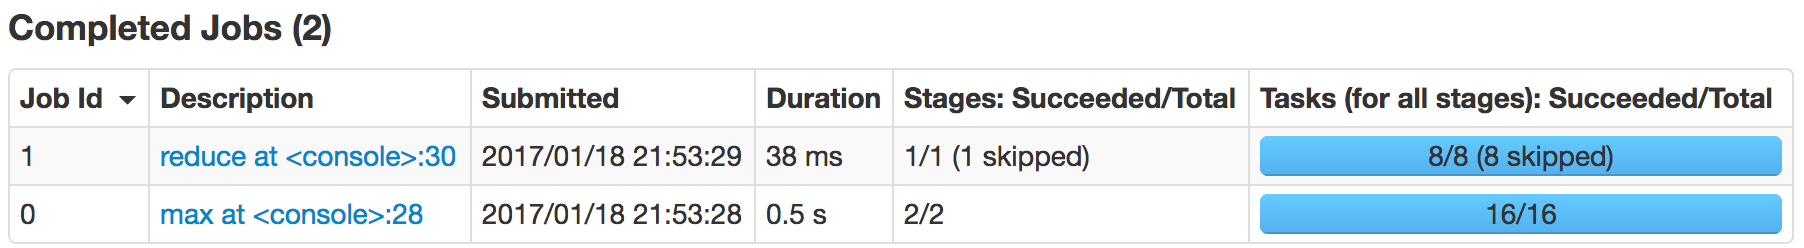
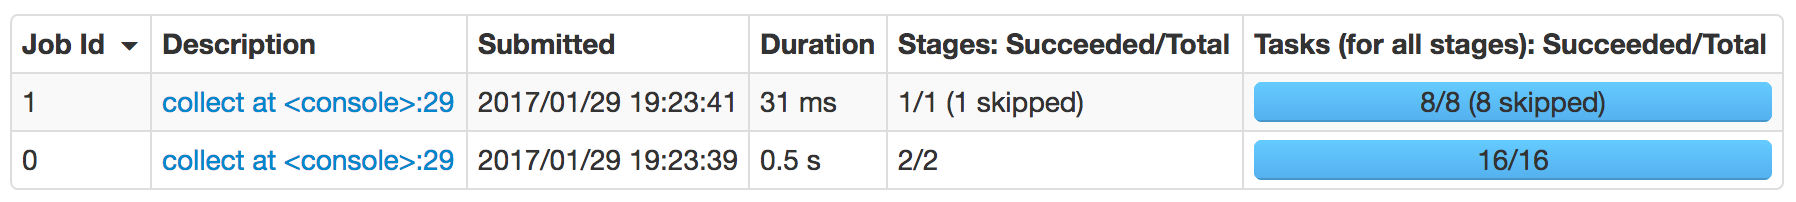
Better and more examples.

diff --git a/presentation/index.html b/presentation/index.html
@@ -387,25 +387,59 @@ object RddExample extends App {
 
 --
 
-Let's look at this code snippet.
+Let's take a simple example.
+
+--
+
+In a list of 100 random numbers find the *max* and *min* *even* and *odd* numbers.
 
 --
 
 ```scala
-val nums = sc.parallelize(1 to 100)
+import scala.util.Random
+
+// Generates 100 random numbers between 0 (inclusive) and 1000 (exclusive).
+val numsRdd = sc.parallelize(Seq.fill(100)(1000).map(Random.nextInt))
+```
+
+---
+
+# Why are RDDs lazy?
+
+Let's take a simple example.
+
+In a list of 100 random numbers find the max and min even and odd number.
+
+```scala
+import scala.util.Random
+
+// Generates 100 random numbers between 0 (inclusive) and 1000 (exclusive).
+val numsRdd = sc.parallelize(Seq.fill(100)(1000).map(Random.nextInt))
 
 // `groupBy` returns an RDD of key-value pairs, `RDD[(Int, Iterable[Int])]` here.
-val grouped = nums.groupBy(_ % 3)
+val grouped = numsRdd.groupBy(_ % 2)
+```
 
-// `_1` accesses the first element in a Scala tuple.
-// `max` forces computation of an RDD like `reduce`.
-val maxKey = grouped.map(_._1).max
+---
 
-// `flatMap` maps over any iterable and flattens all the elements.
-val sum = grouped
-  .flatMap(_._2)
-  .map(_ * maxKey)
-  .reduce(_ + _)
+# Why are RDDs lazy?
+
+Let's take a simple example.
+
+In a list of 100 random numbers find the max and min even and odd number.
+
+```scala
+import scala.util.Random
+
+// Generates 100 random numbers between 0 (inclusive) and 1000 (exclusive).
+val numsRdd = sc.parallelize(Seq.fill(100)(1000).map(Random.nextInt))
+
+// `groupBy` returns an RDD of key-value pairs, `RDD[(Int, Iterable[Int])]` here.
+val grouped = numsRdd.groupBy(_ % 2)
+
+// `collect` is an action forces computation.
+val max = grouped.mapValues(_.max).collect
+val min = grouped.mapValues(_.min).collect
 ```
 
 --
@@ -422,25 +456,310 @@ In the Spark UI, we'll see this:
 
 --
 
-Spark first creates a DAG of all the operations to be performed. The DAG for the previous `maxKey` looks like this.
+Spark first creates a DAG of all the operations to be performed. The DAG for the `max` operation looks like this.
 
 --
 
-.center[![:scale 40%](images/maxDag.png)]
+.center[![:scale 100%](images/maxDag.png)]
 
 ---
 
 # RDD dependency (or lineage) graph
 
-The DAG for `sum` however looks like this.
+The DAG for the `min` operation should look the same, right?
 
 --
 
-.center[![:scale 40%](images/sumDag.png)]
+.center[![:scale 100%](images/minDag.png)]
 
 --
 
-Hence, lazy evaluation allows Spark avoid unnecessary recomputation of the same data.
+Hence, lazy evaluation allows Spark to avoid recomputations.
+
+---
+
+# A more complex example.
+
+--
+
+Find total student enrollments in all CS courses.
+
+--
+
+```scala
+case class User(
+  id: Long,
+  fname: String,
+  lname: String,
+  isStudent: Boolean,
+  isTeacher: Boolean)
+```
+
+---
+
+# A more complex example.
+
+Find total student enrollments in all CS courses.
+
+```scala
+case class User(
+  id: Long,
+  fname: String,
+  lname: String,
+  isStudent: Boolean,
+  isTeacher: Boolean)
+
+case class Course(
+  id: Long,
+  name: String,
+  code: Int,
+  department: String,
+  `type`: String)
+```
+
+---
+
+# A more complex example.
+
+Find total student enrollments in all CS courses.
+
+```scala
+case class User(
+  id: Long,
+  fname: String,
+  lname: String,
+  isStudent: Boolean,
+  isTeacher: Boolean)
+
+case class Course(
+  id: Long,
+  name: String,
+  code: Int,
+  department: String,
+  `type`: String)
+
+case class Enrollment(
+  id: Long,
+  userId: Long,
+  courseId: Long,
+  isArchived: Option[Boolean] = None)
+```
+
+---
+
+# A more complex example.
+
+Some sample data.
+
+```scala
+val users = sc.parallelize(
+  User(1, "Teacher", "Doe", false, true) ::
+  User(2, "Another Teacher", "Doe", false, true) ::
+  User(3, "TA", "Doe", true, true) ::
+  User(4, "Lazy TA", "Doe", true, true) ::
+  User(5, "Student", "Doe", true, false) ::
+  User(6, "Another Student", "Doe", true, false) ::
+  User(7, "Yet Another Student", "Doe", true, false) :: Nil)
+```
+
+---
+
+# A more complex example.
+
+Some sample data.
+
+```scala
+val users = sc.parallelize(
+  User(1, "Teacher", "Doe", false, true) ::
+  User(2, "Another Teacher", "Doe", false, true) ::
+  User(3, "TA", "Doe", true, true) ::
+  User(4, "Lazy TA", "Doe", true, true) ::
+  User(5, "Student", "Doe", true, false) ::
+  User(6, "Another Student", "Doe", true, false) ::
+  User(7, "Yet Another Student", "Doe", true, false) :: Nil)
+
+val courses = sc.parallelize(
+  Course(1, "Algorithms", 100, "CS", "Core") ::
+  Course(2, "Dissecting Frogs", 200, "Bio", "Elective") ::
+  Course(3, "Global Warming: That thing invented by China", 100, "Bio",
+    "NowAnElective") ::
+  Course(4, "Computer Networks: Hacker stuff!", 300, "CS", "Elective") :: Nil)
+```
+
+---
+
+# A more complex example.
+
+Some sample data.
+
+```scala
+val users = sc.parallelize(
+  User(1, "Teacher", "Doe", false, true) ::
+  User(2, "Another Teacher", "Doe", false, true) ::
+  User(3, "TA", "Doe", true, true) ::
+  User(4, "Lazy TA", "Doe", true, true) ::
+  User(5, "Student", "Doe", true, false) ::
+  User(6, "Another Student", "Doe", true, false) ::
+  User(7, "Yet Another Student", "Doe", true, false) :: Nil)
+
+val courses = sc.parallelize(
+  Course(1, "Algorithms", 100, "CS", "Core") ::
+  Course(2, "Dissecting Frogs", 200, "Bio", "Elective") ::
+  Course(3, "Global Warming: That thing invented by China", 100, "Bio",
+    "NowAnElective") ::
+  Course(4, "Computer Networks: Hacker stuff!", 300, "CS", "Elective") :: Nil)
+
+val archivedEnrollments = sc.parallelize(
+  Enrollment(id = 11, userId = 1, courseId = 1, isArchived = Some(true)) ::
+  Enrollment(id = 12, userId = 3, courseId = 1, isArchived = Some(true)) ::
+  Enrollment(id = 13, userId = 5, courseId = 1, isArchived = Some(true)) ::
+  Enrollment(id = 14, userId = 2, courseId = 2, isArchived = Some(true)) ::
+  Enrollment(id = 15, userId = 6, courseId = 2, isArchived = Some(true)) :: Nil)
+```
+
+---
+
+# A more complex example.
+
+```scala
+val currentEnrollments = sc.parallelize(
+  Enrollment(id = 21, userId = 1, courseId = 1) ::
+  Enrollment(id = 22, userId = 3, courseId = 1) ::
+  Enrollment(id = 23, userId = 6, courseId = 1) ::
+  Enrollment(id = 24, userId = 4, courseId = 4) ::
+  Enrollment(id = 25, userId = 7, courseId = 4) ::
+  Enrollment(id = 26, userId = 2, courseId = 2) ::
+  Enrollment(id = 27, userId = 2, courseId = 3) ::
+  Enrollment(id = 26, userId = 5, courseId = 2) ::
+  Enrollment(id = 27, userId = 6, courseId = 3) :: Nil)
+```
+
+---
+
+# A more complex example.
+
+```scala
+val currentEnrollments = sc.parallelize(
+  Enrollment(id = 21, userId = 1, courseId = 1) ::
+  Enrollment(id = 22, userId = 3, courseId = 1) ::
+  Enrollment(id = 23, userId = 6, courseId = 1) ::
+  Enrollment(id = 24, userId = 4, courseId = 4) ::
+  Enrollment(id = 25, userId = 7, courseId = 4) ::
+  Enrollment(id = 26, userId = 2, courseId = 2) ::
+  Enrollment(id = 27, userId = 2, courseId = 3) ::
+  Enrollment(id = 26, userId = 5, courseId = 2) ::
+  Enrollment(id = 27, userId = 6, courseId = 3) :: Nil)
+
+val csCourses = courses.filter(_.department == "CS")
+```
+
+---
+
+# A more complex example.
+
+```scala
+val currentEnrollments = sc.parallelize(
+  Enrollment(id = 21, userId = 1, courseId = 1) ::
+  Enrollment(id = 22, userId = 3, courseId = 1) ::
+  Enrollment(id = 23, userId = 6, courseId = 1) ::
+  Enrollment(id = 24, userId = 4, courseId = 4) ::
+  Enrollment(id = 25, userId = 7, courseId = 4) ::
+  Enrollment(id = 26, userId = 2, courseId = 2) ::
+  Enrollment(id = 27, userId = 2, courseId = 3) ::
+  Enrollment(id = 26, userId = 5, courseId = 2) ::
+  Enrollment(id = 27, userId = 6, courseId = 3) :: Nil)
+
+val csCourses = courses.filter(_.department == "CS")
+
+val students = users.filter(_.isStudent).map { u => (u.id, u) }
+val studentsOnly = users.filter { u => u.isStudent && !u.isTeacher }
+  .map { s => (s.id, s) }
+```
+
+---
+
+# A more complex example.
+
+```scala
+val currentEnrollments = sc.parallelize(
+  Enrollment(id = 21, userId = 1, courseId = 1) ::
+  Enrollment(id = 22, userId = 3, courseId = 1) ::
+  Enrollment(id = 23, userId = 6, courseId = 1) ::
+  Enrollment(id = 24, userId = 4, courseId = 4) ::
+  Enrollment(id = 25, userId = 7, courseId = 4) ::
+  Enrollment(id = 26, userId = 2, courseId = 2) ::
+  Enrollment(id = 27, userId = 2, courseId = 3) ::
+  Enrollment(id = 26, userId = 5, courseId = 2) ::
+  Enrollment(id = 27, userId = 6, courseId = 3) :: Nil)
+
+val csCourses = courses.filter(_.department == "CS")
+
+val students = users.filter(_.isStudent).map { u => (u.id, u) }
+val studentsOnly = users.filter { u => u.isStudent && !u.isTeacher }
+  .map { s => (s.id, s) }
+
+val archivedCsEnrollments = archivedEnrollments.map { e => (e.userId, e) }
+  .join(students)
+val currentCsEnrollments = currentEnrollments.map { e => (e.userId, e) }
+  .join(studentsOnly)
+val allCurrentCsEnrollments = currentEnrollments.map { e => (e.userId, e) }
+  .join(students)
+```
+
+---
+
+# A more complex example.
+
+```scala
+val currentEnrollments = sc.parallelize(
+  Enrollment(id = 21, userId = 1, courseId = 1) ::
+  Enrollment(id = 22, userId = 3, courseId = 1) ::
+  Enrollment(id = 23, userId = 6, courseId = 1) ::
+  Enrollment(id = 24, userId = 4, courseId = 4) ::
+  Enrollment(id = 25, userId = 7, courseId = 4) ::
+  Enrollment(id = 26, userId = 2, courseId = 2) ::
+  Enrollment(id = 27, userId = 2, courseId = 3) ::
+  Enrollment(id = 26, userId = 5, courseId = 2) ::
+  Enrollment(id = 27, userId = 6, courseId = 3) :: Nil)
+
+val csCourses = courses.filter(_.department == "CS")
+
+val students = users.filter(_.isStudent).map { u => (u.id, u) }
+val studentsOnly = users.filter { u => u.isStudent && !u.isTeacher }
+  .map { s => (s.id, s) }
+
+val archivedCsEnrollments = archivedEnrollments.map { e => (e.userId, e) }
+  .join(students)
+val currentCsEnrollments = currentEnrollments.map { e => (e.userId, e) }
+  .join(studentsOnly)
+val allCurrentCsEnrollments = currentEnrollments.map { e => (e.userId, e) }
+  .join(students)
+
+val csEnrollments = archivedCsEnrollments.union(currentCsEnrollments).count
+val allCsEnrollments = archivedCsEnrollments.union(allCurrentCsEnrollments).count
+```
+
+---
+
+# A more complex example.
+
+Again we have a few skipped tasks.
+
+--
+
+.center[![:scale 100%](images/complexSkipped.png)]
+
+---
+
+# A more complex example.
+
+.center[![:scale 95%](images/complexStudents.png)]
+
+---
+
+# A more complex example.
+
+.center[![:scale 95%](images/complexAllStudents.png)]
 
 ---
 
